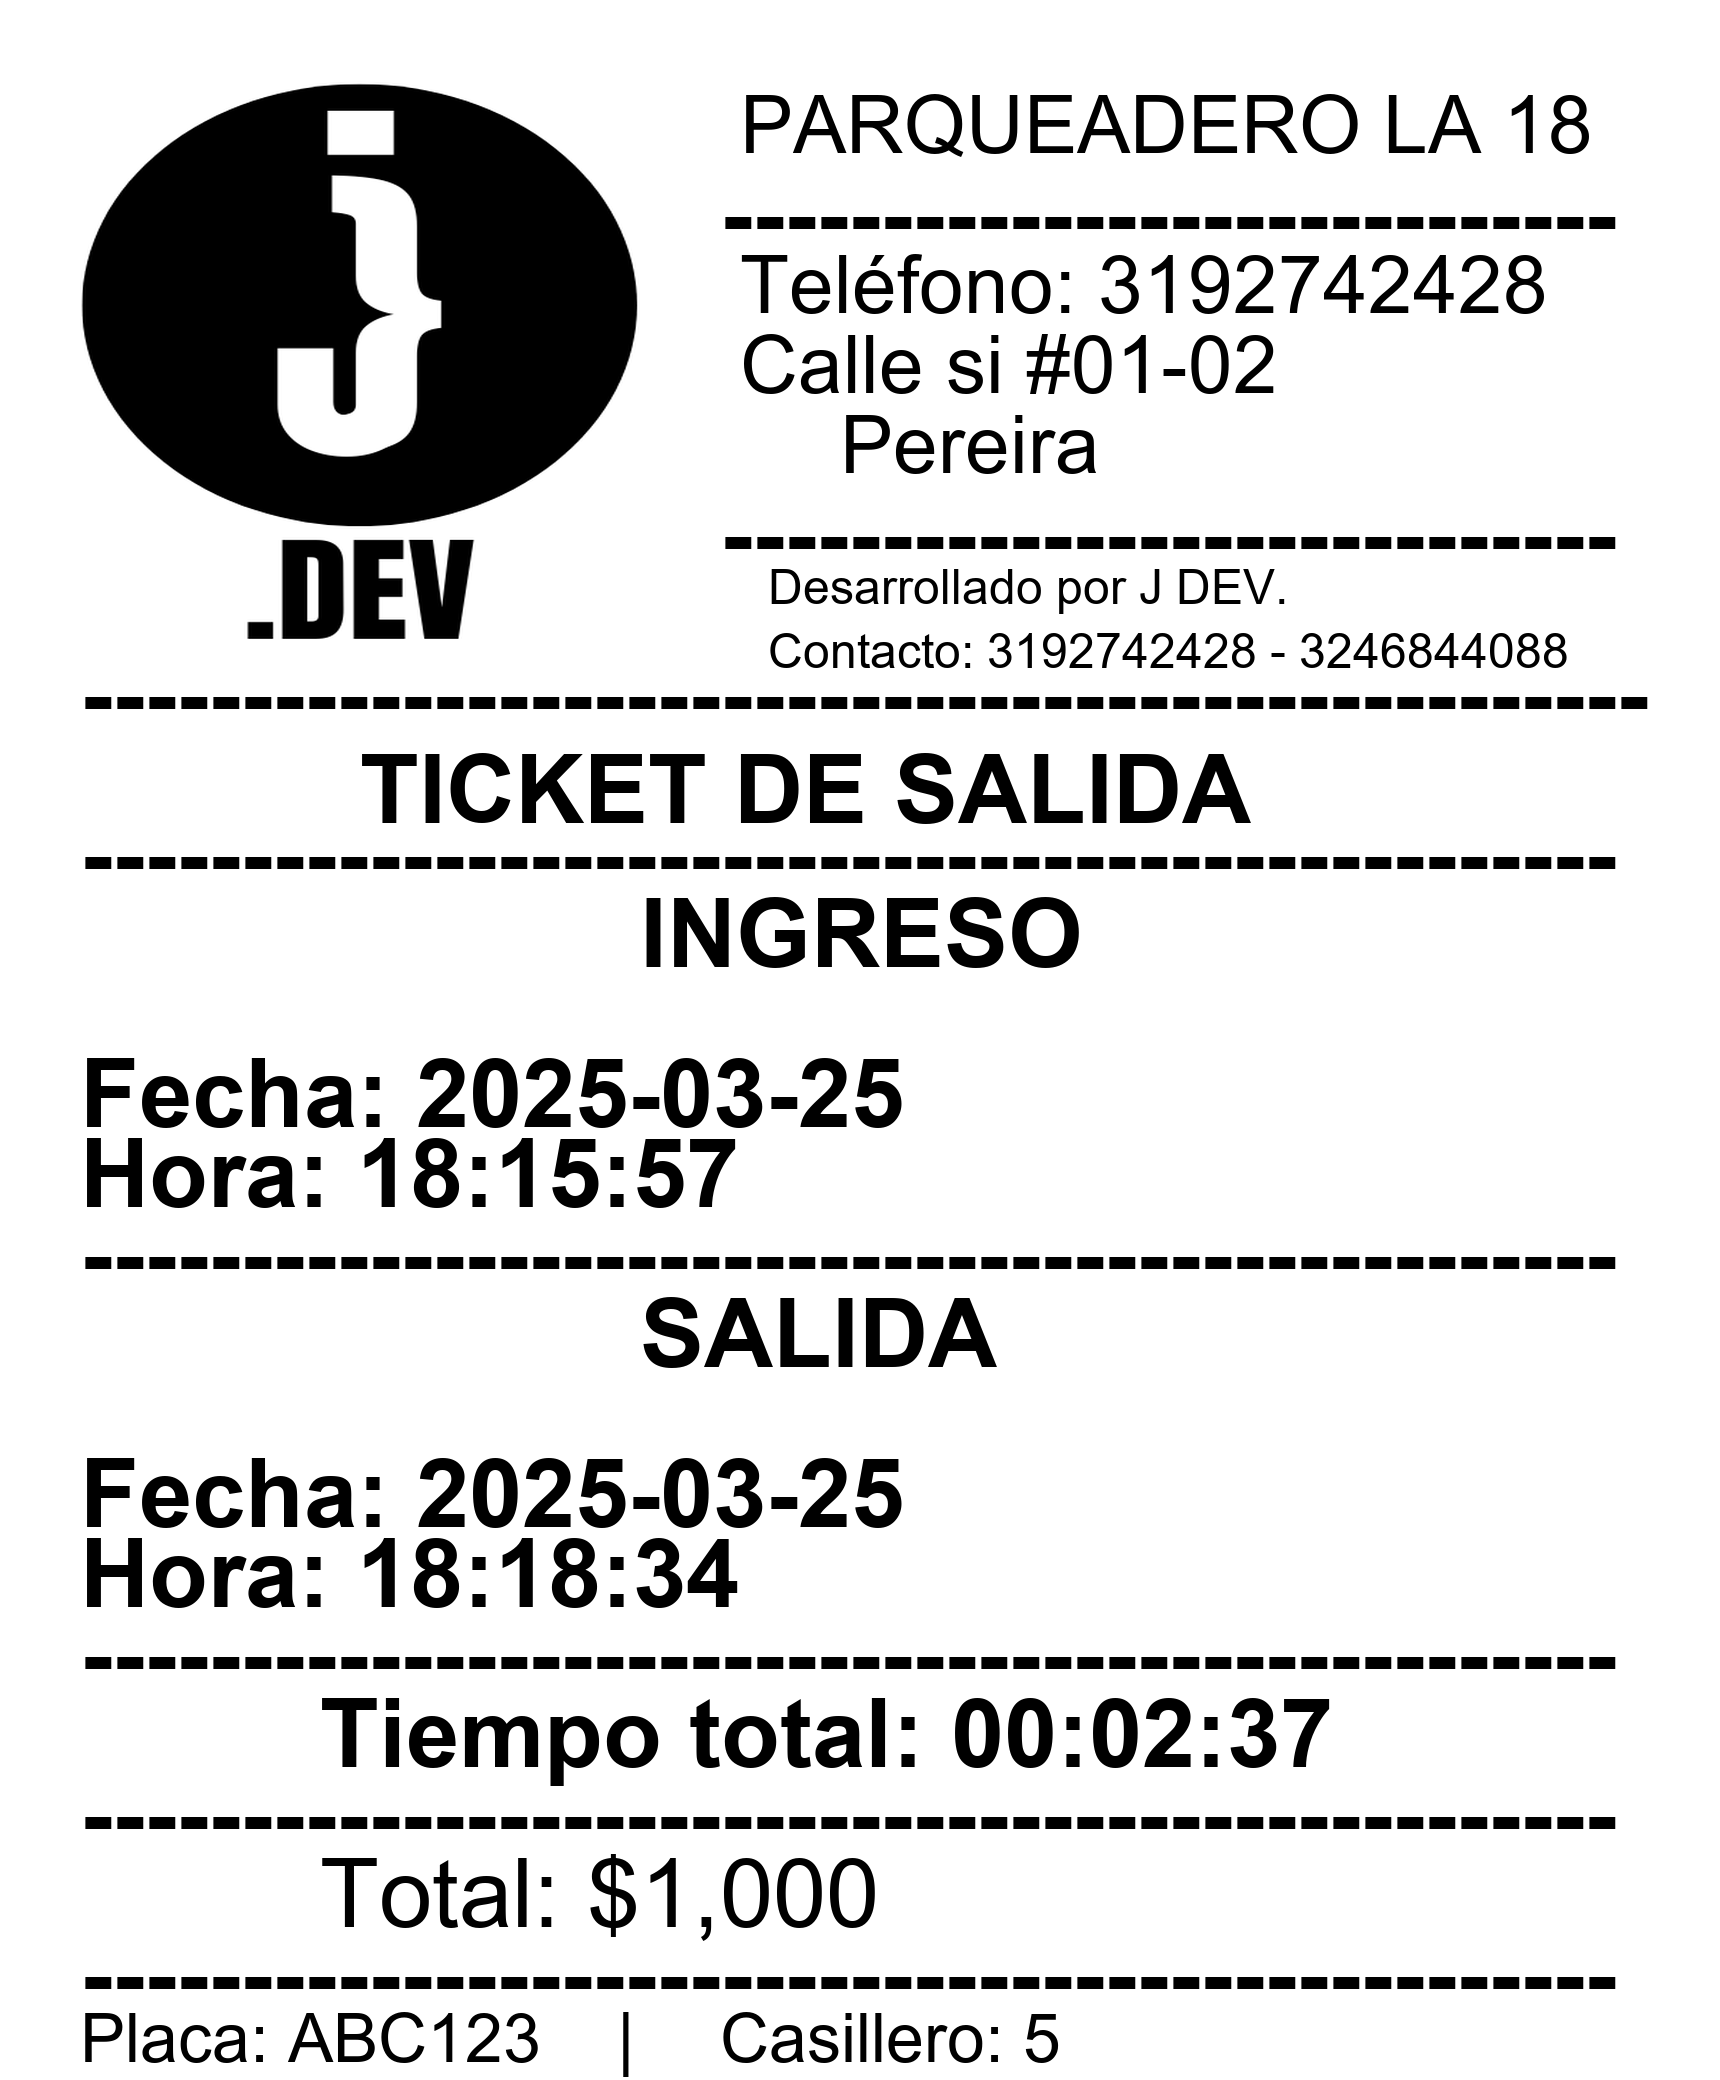
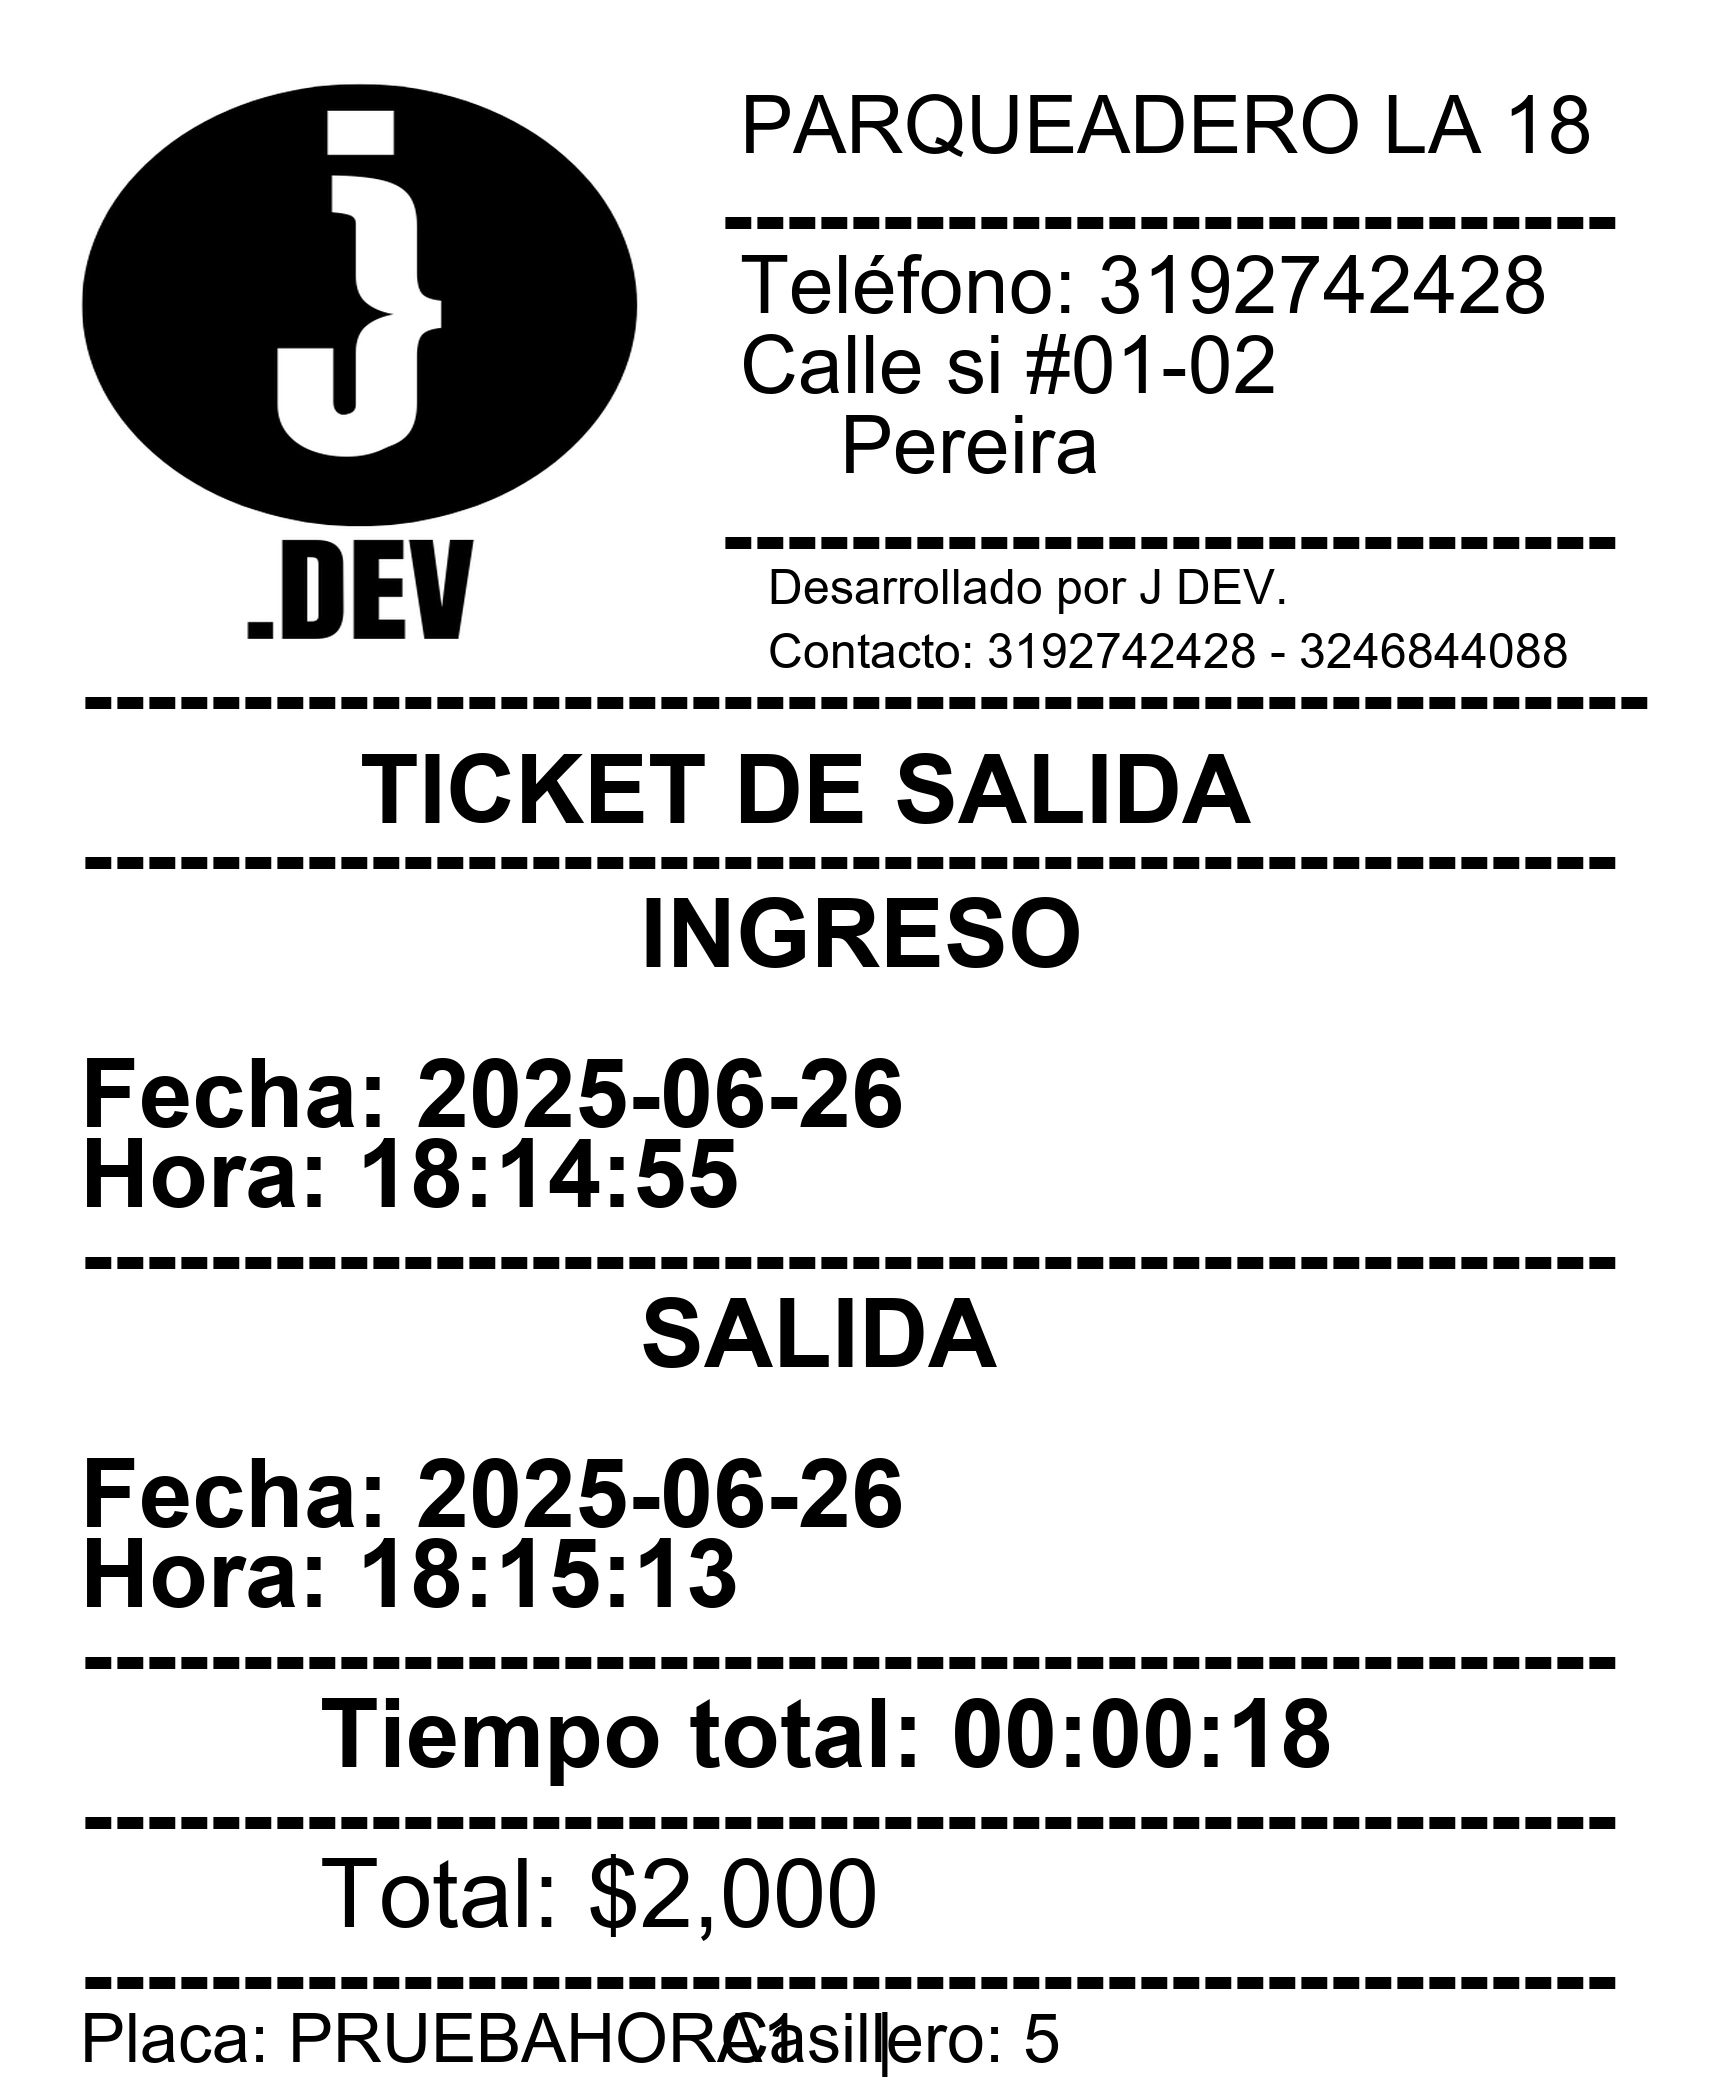
Se agregó la funcionalidad de encriptación y desencriptación de archivos, agregando la funcion de cambiar valor de hora, mes y dia

diff --git a/leerTxt.py b/leerTxt.py
@@ -13,52 +13,164 @@ def escribir_archivo (carpeta, nombre_archivo,nuevo_contenido):
     ruta_completa = os.path.join(carpeta, nombre_archivo)
     with open(ruta_completa, 'w') as archivo:
         archivo.write(nuevo_contenido)
+# Encriptación y desencriptación de archivos con una clave personalizada
+import os
+import hashlib
+import base64
 
-#----------------Lectura y escritura de archivos (Encriptado)------------------
-def generar_clave():
-    """Genera una clave y la guarda en un archivo."""
-    clave = Fernet.generate_key()
-    with open("clave.key", "wb") as clave_archivo:
-        clave_archivo.write(clave)
+# Palabra clave incrustada en el código (cámbiala por la que quieras)
 
-def cargar_clave():
-    """Carga la clave desde el archivo."""
-    return open("clave.key", "rb").read()
+def generar_clave_desde_palabra(palabra_clave):
+    """Genera una clave hash basada en la palabra clave."""
+    # Usamos SHA-256 para crear un hash de 32 bytes desde la palabra clave
+    return hashlib.sha256(palabra_clave.encode()).digest()
 
-def encriptar(mensaje, clave):
-    """Encripta un mensaje con la clave dada."""
-    f = Fernet(clave)
-    return f.encrypt(mensaje.encode()).decode()
+def expandir_clave(clave, longitud):
+    """Expande la clave para que sea al menos tan larga como el mensaje."""
+    clave_expandida = b''
+    while len(clave_expandida) < longitud:
+        clave_expandida += clave
+    return clave_expandida[:longitud]
 
-def desencriptar(mensaje_encriptado, clave):
-    """Desencripta un mensaje con la clave dada."""
-    f = Fernet(clave)
-    return f.decrypt(mensaje_encriptado.encode()).decode()
+def encriptar(mensaje):
+    palabra_clave = "Parqueadero2025"  # Palabra clave incrustada en el código
+    """Encripta un mensaje usando XOR con la palabra clave."""
+    # Convertir mensaje a bytes
+    mensaje_bytes = mensaje.encode('utf-8')
+    
+    # Generar clave hash
+    clave = generar_clave_desde_palabra(palabra_clave)
+    
+    # Expandir la clave para que coincida con la longitud del mensaje
+    clave_expandida = expandir_clave(clave, len(mensaje_bytes))
+    
+    # Aplicar XOR
+    resultado = bytearray()
+    for i in range(len(mensaje_bytes)):
+        resultado.append(mensaje_bytes[i] ^ clave_expandida[i])
+    
+    # Convertir a base64 para poder guardarlo como texto
+    return base64.b64encode(resultado).decode('utf-8')
+
+def desencriptar(mensaje_encriptado):
+    """Desencripta un mensaje usando XOR con la palabra clave."""
+    palabra_clave = "Parqueadero2025"
+    try:
+        # Decodificar desde base64
+        mensaje_bytes = base64.b64decode(mensaje_encriptado.encode('utf-8'))
+        
+        # Generar la misma clave hash
+        clave = generar_clave_desde_palabra(palabra_clave)
+        
+        # Expandir la clave
+        clave_expandida = expandir_clave(clave, len(mensaje_bytes))
+        
+        # Aplicar XOR (la misma operación desencripta)
+        resultado = bytearray()
+        for i in range(len(mensaje_bytes)):
+            resultado.append(mensaje_bytes[i] ^ clave_expandida[i])
+        
+        # Convertir de vuelta a string
+        return resultado.decode('utf-8')
+    except Exception as e:
+        raise ValueError(f"Error al desencriptar: {e}")
 
 def leer_archivoDesencriptado(carpeta, nombre_archivo):
     """Lee un archivo y desencripta su contenido."""
-    clave = cargar_clave()
     ruta_completa = os.path.join(carpeta, nombre_archivo)
-    with open(ruta_completa, 'r') as archivo:
-        contenido_encriptado = archivo.read().strip()
-    return desencriptar(contenido_encriptado, clave)
+    try:
+        with open(ruta_completa, 'r', encoding='utf-8') as archivo:
+            contenido_encriptado = archivo.read().strip()
+        return desencriptar(contenido_encriptado)
+    except FileNotFoundError:
+        raise FileNotFoundError(f"No se encontró el archivo: {ruta_completa}")
+    except Exception as e:
+        raise ValueError(f"Error al leer o desencriptar el archivo: {e}")
 
 def escribir_archivoEncriptado(carpeta, nombre_archivo, nuevo_contenido):
     """Encripta el contenido y lo guarda en el archivo."""
-    clave = cargar_clave()
-    contenido_encriptado = encriptar(nuevo_contenido, clave)
+    # Crear carpeta si no existe
+    if not os.path.exists(carpeta):
+        os.makedirs(carpeta)
+    
+    contenido_encriptado = encriptar(nuevo_contenido)
     ruta_completa = os.path.join(carpeta, nombre_archivo)
-    with open(ruta_completa, 'w') as archivo:
+    
+    with open(ruta_completa, 'w', encoding='utf-8') as archivo:
         archivo.write(contenido_encriptado)
-#generar clave
-def clave_existe():
-    return os.path.exists("clave.key")
-# Uso
-if clave_existe():
-    print("La clave ya existe.")
-else:
-    print("No se encontró clave.key, generando una nueva...")
-    generar_clave()
-    escribir_archivoEncriptado('config','VH.txt','0')
-    escribir_archivoEncriptado('config','VD.txt','0')
-    escribir_archivoEncriptado('config','VM.txt','0')
+
+def verificar_archivos_config():
+    """Verifica si los archivos de configuración existen, si no los crea."""
+    archivos_config = ['VH.txt', 'VD.txt', 'VM.txt']
+    carpeta_config = 'config'
+    
+    # Crear carpeta config si no existe
+    if not os.path.exists(carpeta_config):
+        os.makedirs(carpeta_config)
+        print(f"Carpeta '{carpeta_config}' creada.")
+    
+    archivos_faltantes = []
+    for archivo in archivos_config:
+        ruta_completa = os.path.join(carpeta_config, archivo)
+        if not os.path.exists(ruta_completa):
+            archivos_faltantes.append(archivo)
+    
+    if archivos_faltantes:
+        print(f"Archivos faltantes encontrados: {archivos_faltantes}")
+        print("Creando archivos de configuración...")
+        for archivo in archivos_faltantes:
+            escribir_archivoEncriptado(carpeta_config, archivo, '0')
+        print("Archivos de configuración creados y encriptados.")
+    else:
+        print("Todos los archivos de configuración ya existen.")
+
+# Función de prueba para verificar que funciona
+def probar_encriptacion():
+    """Prueba las funciones de encriptación y desencriptación."""
+    mensaje_prueba = "Hola, este es un mensaje de prueba con caracteres especiales: ñáéíóú"
+    print(f"Mensaje original: {mensaje_prueba}")
+    
+    # Encriptar
+    mensaje_encriptado = encriptar(mensaje_prueba)
+    print(f"Mensaje encriptado: {mensaje_encriptado}")
+    
+    # Desencriptar
+    mensaje_desencriptado = desencriptar(mensaje_encriptado)
+    print(f"Mensaje desencriptado: {mensaje_desencriptado}")
+    
+    # Verificar que son iguales
+    if mensaje_prueba == mensaje_desencriptado:
+        print("✅ Encriptación funcionando correctamente!")
+    else:
+        print("❌ Error en la encriptación")
+
+# Uso principal
+if __name__ == "__main__":
+    PALABRA_CLAVE = "Parqueadero2025"  # Palabra clave incrustada en el código
+    print("Sistema de encriptación personalizado iniciado")
+    print(f"Usando palabra clave incrustada: {'*' * len(PALABRA_CLAVE)}")
+    
+    # Verificar y crear archivos de configuración
+    verificar_archivos_config()
+    
+    # Prueba opcional del sistema
+    print("\n--- Prueba del sistema ---")
+    probar_encriptacion()
+    
+    # Ejemplo de uso con archivos
+    print("\n--- Prueba con archivos ---")
+    try:
+        # Leer un archivo (ejemplo)
+        contenido = leer_archivoDesencriptado('config', 'VH.txt')
+        print(f"Contenido de VH.txt: {contenido}")
+        
+        # Escribir nuevo contenido
+        escribir_archivoEncriptado('config', 'prueba.txt', 'Este es un archivo de prueba encriptado')
+        print("Archivo prueba.txt creado y encriptado")
+        
+        # Leer el archivo recién creado
+        contenido_prueba = leer_archivoDesencriptado('config', 'prueba.txt')
+        print(f"Contenido de prueba.txt: {contenido_prueba}")
+        
+    except Exception as e:
+        print(f"Error: {e}")

diff --git a/pagina_Tickets.py b/pagina_Tickets.py
@@ -9,7 +9,7 @@ from datetime import datetime
 from generarTickets.TicketSalidaMotos import generarTicketSalidaMoto
 from generarTickets.TicketSalidaFijo import generarTicketSalidaFijo
 from generarTickets.TicketRenovarMensualidad import generarTicketRenovarMensualidad
-from leerTxt import leer_archivo
+from leerTxt import leer_archivo,leer_archivoDesencriptado
 class PaginaTickets(QWidget):
     senalActualizarTablasCasilleros= pyqtSignal()
     senalActualizarTablaRegistroMotos = pyqtSignal()
@@ -102,8 +102,8 @@ class PaginaTickets(QWidget):
             datosBusquedaSalidaMoto= db_connection.buscarMotoPorId(self.textboxCodigoSacarMoto.text())
         else:
             if self.textboxPlacaSacarMoto.text():
-                datosBusquedaSalidaMoto= db_connection.buscarMotoPorPlaca(self.textboxPlacaSacarMoto.text())    
-                print (f"placa a buscar: {self.textboxPlacaSacarMoto.text()}")      
+                datosBusquedaSalidaMoto= db_connection.buscarMotoPorPlaca(self.textboxPlacaSacarMoto.text()) 
+                print (f"placa a buscar: {self.textboxPlacaSacarMoto.text()}")
         if datosBusquedaSalidaMoto:
             self.textboxCodigoSacarMoto.setText(str(datosBusquedaSalidaMoto['id']))
             self.textboxPlacaSacarMoto.setText(str(datosBusquedaSalidaMoto['Placa']))
@@ -135,8 +135,8 @@ class PaginaTickets(QWidget):
                 resultado = f"{int(horas):02}:{int(minutos):02}:{int(segundos):02}"
                 self.textboxTiempoTotalSacarMoto.setText(resultado)
                 # Cambiar estas variables segun los precios a cobrar del parqueadero
-                cobroPorHora= 1000 #Cobro por hora del parqueadero
-                cobroPorDia = 5000 #Cobro ppr dia del parqueadero
+                cobroPorHora= int(leer_archivoDesencriptado('config','VH.txt')) #Cobro por hora del parqueadero
+                cobroPorDia = int(leer_archivoDesencriptado('config','VD.txt')) #Cobro ppr dia del parqueadero
                 #-------------------------------------------------------------------
                 if (minutos or segundos)>0: #Si Se lleva a subre pasar un segundo o un minuto de más se cobrará una hora completa
                     horas+=1
